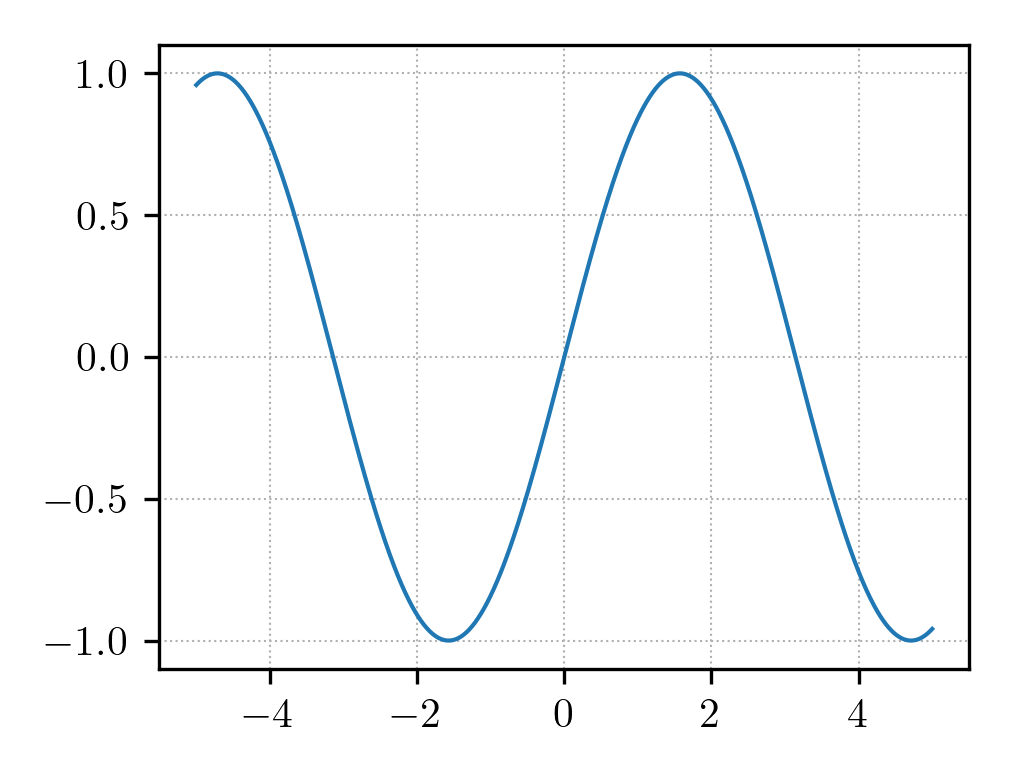
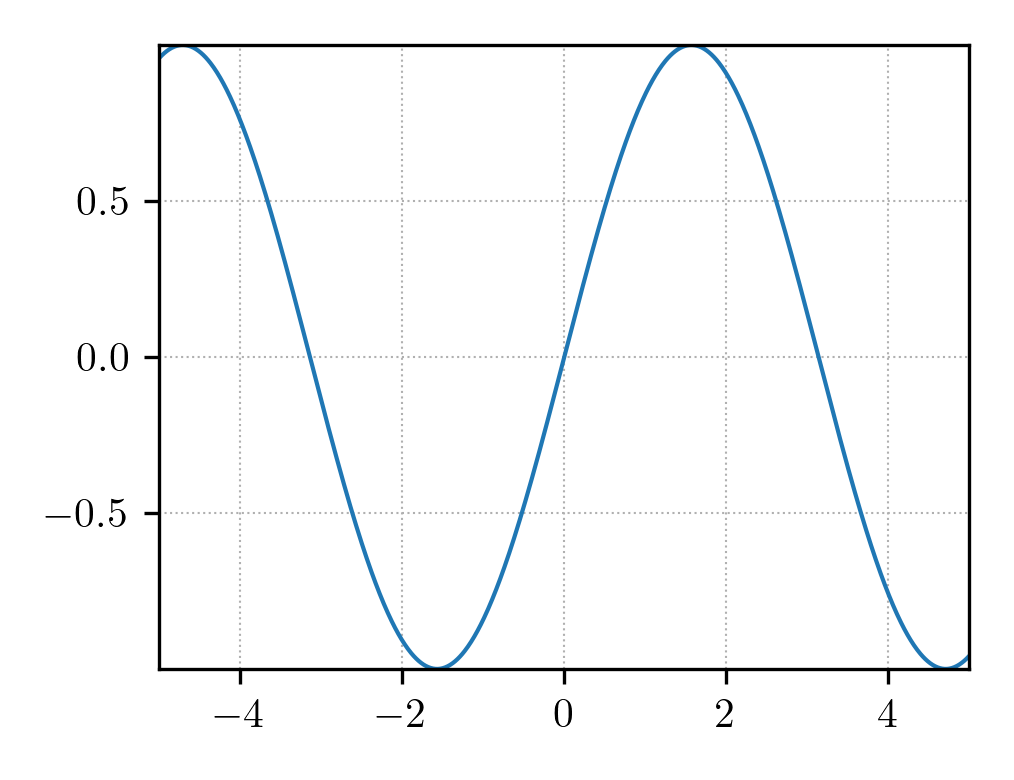
fix: update margins of ``aps.mplstyle``

diff --git a/README.md b/README.md
@@ -76,10 +76,10 @@ Style for developing
 
 ### ``aps.mplstyle``
 
-Style for generatig figures for the APS journals (physical review, ...)
+Style for generatig single-column figures for APS journals (physical review, ...)
 
 <p align="center">
-  <img src="https://raw.githubusercontent.com/dylanljones/mplstyles/master/examples/aps.mplstyle.png" alt="figures.mplstyle example" style="width: 400px" />
+  <img src="https://raw.githubusercontent.com/dylanljones/mplstyles/master/examples/aps.mplstyle.png" alt="aps.mplstyle example" style="width: 400px" />
 </p>
 
 
